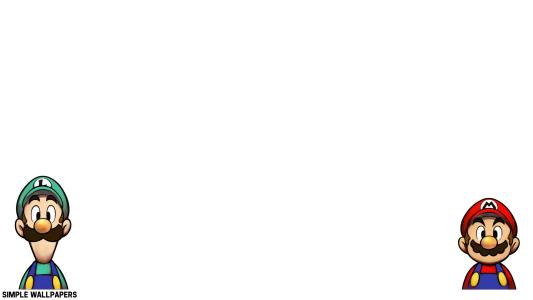
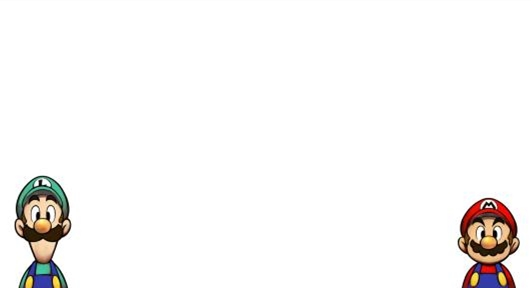
Site updated: 2018-03-14 13:46:31

Changed region(s): [[0.0, 0.5625, 0.1507, 1.0], [0.8437, 0.6562, 0.9944, 1.0]]

diff --git a/archives/2018/03/index.html b/archives/2018/03/index.html
@@ -1,4 +1,4 @@
-<!DOCTYPE html><html lang="zh-cn"><head><meta charset="utf-8"><meta http-equiv="X-UA-Compatible" content="IE=Edge"><meta name="viewport" content="width=device-width,initial-scale=1.0,minimum-scale=1.0,maximum-scale=1.0,user-scalable=no"><meta name="format-detection" content="telephone=no"><meta name="format-detection" content="email=no"><meta name="description" content="用于记录随手笔记的小博客！"><meta name="keywords" content="Hexo, Gruntjs, Nodejs, Reactjs, Vuejs"><title>脚印艺的小博客</title><link rel="stylesheet" href="/css/main_style.min.css"><link rel="icon" href="/favicon.ico"></head><body><input id="navi" type="checkbox"><ul class="main-navication"><li><a href="/"><span>Home</span></a></li><li><a href="https://github.com"><span>Github</span></a></li></ul><div class="wrapper" id="wrap"><div class="page-header"><label class="navi-button" for="navi">MENU</label><div class="background"><img src="/menuHead.jpg"></div><div class="author"><div class="head"><img src="/boy.jpg"></div><h3 class="name">脚印艺</h3><p class="signature">随手笔记</p></div></div><ul class="post-list" style="max-width:800px"><li> <p class="date">March 13, 2018</p><h4 class="title"><a href="/2018/03/13/hello-world/">Hello World</a></h4><div class="excerpt"></div><ul class="meta"><li><i class="icon icon-author"></i>脚印艺</li><li><i class="icon icon-clock"></i>2 Minutes</li><li><i class="icon icon-category"></i></li></ul></li></ul><ul class="pagination"><li class="current"><a>1</a></li></ul><div class="page-footer"><div class="top"><ul class="social"><li><a href="https://github.com/somebody12123" title="Github" target="_blank"><i class="icon icon-github"></i></a></li></ul></div><div class="bottom"><p class="copyright">© 2018 脚印艺的小博客<br><small>POWER BY <a href="https://hexo.io" target="_blank">HEXO</a></small></p></div></div></div><script>var wrap = document.getElementById('wrap');
+<!DOCTYPE html><html lang="zh-cn"><head><meta charset="utf-8"><meta http-equiv="X-UA-Compatible" content="IE=Edge"><meta name="viewport" content="width=device-width,initial-scale=1.0,minimum-scale=1.0,maximum-scale=1.0,user-scalable=no"><meta name="format-detection" content="telephone=no"><meta name="format-detection" content="email=no"><meta name="description" content="用于记录随手笔记的小博客！"><meta name="keywords" content="Hexo, Gruntjs, Nodejs, Reactjs, Vuejs"><title>脚印艺的小博客</title><link rel="stylesheet" href="/css/main_style.min.css"><link rel="icon" href="/favicon.ico"></head><body><input id="navi" type="checkbox"><ul class="main-navication"><li><a href="/"><span>Home</span></a></li><li><a href="https://github.com"><span>Github</span></a></li></ul><div class="wrapper" id="wrap"><div class="page-header"><label class="navi-button" for="navi">MENU</label><div class="background"><img src="/contentHead.jpg"></div><div class="author"><div class="head"><img src="/boy.jpg"></div><h3 class="name">脚印艺</h3><p class="signature">随手笔记</p></div></div><ul class="post-list" style="max-width:800px"><li> <p class="date">March 13, 2018</p><h4 class="title"><a href="/2018/03/13/hello-world/">Hello World</a></h4><div class="excerpt"></div><ul class="meta"><li><i class="icon icon-author"></i>脚印艺</li><li><i class="icon icon-clock"></i>2 Minutes</li><li><i class="icon icon-category"></i></li></ul></li></ul><ul class="pagination"><li class="current"><a>1</a></li></ul><div class="page-footer"><div class="top"><ul class="social"><li><a href="https://github.com/somebody12123" title="Github" target="_blank"><i class="icon icon-github"></i></a></li></ul></div><div class="bottom"><p class="copyright">© 2018 脚印艺的小博客<br><small>POWER BY <a href="https://hexo.io" target="_blank">HEXO</a></small></p></div></div></div><script>var wrap = document.getElementById('wrap');
 window.onload = function () {
   wrap.className += ' done';
 }</script></body></html>

diff --git a/archives/2018/index.html b/archives/2018/index.html
@@ -1,4 +1,4 @@
-<!DOCTYPE html><html lang="zh-cn"><head><meta charset="utf-8"><meta http-equiv="X-UA-Compatible" content="IE=Edge"><meta name="viewport" content="width=device-width,initial-scale=1.0,minimum-scale=1.0,maximum-scale=1.0,user-scalable=no"><meta name="format-detection" content="telephone=no"><meta name="format-detection" content="email=no"><meta name="description" content="用于记录随手笔记的小博客！"><meta name="keywords" content="Hexo, Gruntjs, Nodejs, Reactjs, Vuejs"><title>脚印艺的小博客</title><link rel="stylesheet" href="/css/main_style.min.css"><link rel="icon" href="/favicon.ico"></head><body><input id="navi" type="checkbox"><ul class="main-navication"><li><a href="/"><span>Home</span></a></li><li><a href="https://github.com"><span>Github</span></a></li></ul><div class="wrapper" id="wrap"><div class="page-header"><label class="navi-button" for="navi">MENU</label><div class="background"><img src="/menuHead.jpg"></div><div class="author"><div class="head"><img src="/boy.jpg"></div><h3 class="name">脚印艺</h3><p class="signature">随手笔记</p></div></div><ul class="post-list" style="max-width:800px"><li> <p class="date">March 13, 2018</p><h4 class="title"><a href="/2018/03/13/hello-world/">Hello World</a></h4><div class="excerpt"></div><ul class="meta"><li><i class="icon icon-author"></i>脚印艺</li><li><i class="icon icon-clock"></i>2 Minutes</li><li><i class="icon icon-category"></i></li></ul></li></ul><ul class="pagination"><li class="current"><a>1</a></li></ul><div class="page-footer"><div class="top"><ul class="social"><li><a href="https://github.com/somebody12123" title="Github" target="_blank"><i class="icon icon-github"></i></a></li></ul></div><div class="bottom"><p class="copyright">© 2018 脚印艺的小博客<br><small>POWER BY <a href="https://hexo.io" target="_blank">HEXO</a></small></p></div></div></div><script>var wrap = document.getElementById('wrap');
+<!DOCTYPE html><html lang="zh-cn"><head><meta charset="utf-8"><meta http-equiv="X-UA-Compatible" content="IE=Edge"><meta name="viewport" content="width=device-width,initial-scale=1.0,minimum-scale=1.0,maximum-scale=1.0,user-scalable=no"><meta name="format-detection" content="telephone=no"><meta name="format-detection" content="email=no"><meta name="description" content="用于记录随手笔记的小博客！"><meta name="keywords" content="Hexo, Gruntjs, Nodejs, Reactjs, Vuejs"><title>脚印艺的小博客</title><link rel="stylesheet" href="/css/main_style.min.css"><link rel="icon" href="/favicon.ico"></head><body><input id="navi" type="checkbox"><ul class="main-navication"><li><a href="/"><span>Home</span></a></li><li><a href="https://github.com"><span>Github</span></a></li></ul><div class="wrapper" id="wrap"><div class="page-header"><label class="navi-button" for="navi">MENU</label><div class="background"><img src="/contentHead.jpg"></div><div class="author"><div class="head"><img src="/boy.jpg"></div><h3 class="name">脚印艺</h3><p class="signature">随手笔记</p></div></div><ul class="post-list" style="max-width:800px"><li> <p class="date">March 13, 2018</p><h4 class="title"><a href="/2018/03/13/hello-world/">Hello World</a></h4><div class="excerpt"></div><ul class="meta"><li><i class="icon icon-author"></i>脚印艺</li><li><i class="icon icon-clock"></i>2 Minutes</li><li><i class="icon icon-category"></i></li></ul></li></ul><ul class="pagination"><li class="current"><a>1</a></li></ul><div class="page-footer"><div class="top"><ul class="social"><li><a href="https://github.com/somebody12123" title="Github" target="_blank"><i class="icon icon-github"></i></a></li></ul></div><div class="bottom"><p class="copyright">© 2018 脚印艺的小博客<br><small>POWER BY <a href="https://hexo.io" target="_blank">HEXO</a></small></p></div></div></div><script>var wrap = document.getElementById('wrap');
 window.onload = function () {
   wrap.className += ' done';
 }</script></body></html>

diff --git a/archives/index.html b/archives/index.html
@@ -1,4 +1,4 @@
-<!DOCTYPE html><html lang="zh-cn"><head><meta charset="utf-8"><meta http-equiv="X-UA-Compatible" content="IE=Edge"><meta name="viewport" content="width=device-width,initial-scale=1.0,minimum-scale=1.0,maximum-scale=1.0,user-scalable=no"><meta name="format-detection" content="telephone=no"><meta name="format-detection" content="email=no"><meta name="description" content="用于记录随手笔记的小博客！"><meta name="keywords" content="Hexo, Gruntjs, Nodejs, Reactjs, Vuejs"><title>脚印艺的小博客</title><link rel="stylesheet" href="/css/main_style.min.css"><link rel="icon" href="/favicon.ico"></head><body><input id="navi" type="checkbox"><ul class="main-navication"><li><a href="/"><span>Home</span></a></li><li><a href="https://github.com"><span>Github</span></a></li></ul><div class="wrapper" id="wrap"><div class="page-header"><label class="navi-button" for="navi">MENU</label><div class="background"><img src="/menuHead.jpg"></div><div class="author"><div class="head"><img src="/boy.jpg"></div><h3 class="name">脚印艺</h3><p class="signature">随手笔记</p></div></div><ul class="post-list" style="max-width:800px"><li> <p class="date">March 13, 2018</p><h4 class="title"><a href="/2018/03/13/hello-world/">Hello World</a></h4><div class="excerpt"></div><ul class="meta"><li><i class="icon icon-author"></i>脚印艺</li><li><i class="icon icon-clock"></i>2 Minutes</li><li><i class="icon icon-category"></i></li></ul></li></ul><ul class="pagination"><li class="current"><a>1</a></li></ul><div class="page-footer"><div class="top"><ul class="social"><li><a href="https://github.com/somebody12123" title="Github" target="_blank"><i class="icon icon-github"></i></a></li></ul></div><div class="bottom"><p class="copyright">© 2018 脚印艺的小博客<br><small>POWER BY <a href="https://hexo.io" target="_blank">HEXO</a></small></p></div></div></div><script>var wrap = document.getElementById('wrap');
+<!DOCTYPE html><html lang="zh-cn"><head><meta charset="utf-8"><meta http-equiv="X-UA-Compatible" content="IE=Edge"><meta name="viewport" content="width=device-width,initial-scale=1.0,minimum-scale=1.0,maximum-scale=1.0,user-scalable=no"><meta name="format-detection" content="telephone=no"><meta name="format-detection" content="email=no"><meta name="description" content="用于记录随手笔记的小博客！"><meta name="keywords" content="Hexo, Gruntjs, Nodejs, Reactjs, Vuejs"><title>脚印艺的小博客</title><link rel="stylesheet" href="/css/main_style.min.css"><link rel="icon" href="/favicon.ico"></head><body><input id="navi" type="checkbox"><ul class="main-navication"><li><a href="/"><span>Home</span></a></li><li><a href="https://github.com"><span>Github</span></a></li></ul><div class="wrapper" id="wrap"><div class="page-header"><label class="navi-button" for="navi">MENU</label><div class="background"><img src="/contentHead.jpg"></div><div class="author"><div class="head"><img src="/boy.jpg"></div><h3 class="name">脚印艺</h3><p class="signature">随手笔记</p></div></div><ul class="post-list" style="max-width:800px"><li> <p class="date">March 13, 2018</p><h4 class="title"><a href="/2018/03/13/hello-world/">Hello World</a></h4><div class="excerpt"></div><ul class="meta"><li><i class="icon icon-author"></i>脚印艺</li><li><i class="icon icon-clock"></i>2 Minutes</li><li><i class="icon icon-category"></i></li></ul></li></ul><ul class="pagination"><li class="current"><a>1</a></li></ul><div class="page-footer"><div class="top"><ul class="social"><li><a href="https://github.com/somebody12123" title="Github" target="_blank"><i class="icon icon-github"></i></a></li></ul></div><div class="bottom"><p class="copyright">© 2018 脚印艺的小博客<br><small>POWER BY <a href="https://hexo.io" target="_blank">HEXO</a></small></p></div></div></div><script>var wrap = document.getElementById('wrap');
 window.onload = function () {
   wrap.className += ' done';
 }</script></body></html>

diff --git a/index.html b/index.html
@@ -1,4 +1,4 @@
-<!DOCTYPE html><html lang="zh-cn"><head><meta charset="utf-8"><meta http-equiv="X-UA-Compatible" content="IE=Edge"><meta name="viewport" content="width=device-width,initial-scale=1.0,minimum-scale=1.0,maximum-scale=1.0,user-scalable=no"><meta name="format-detection" content="telephone=no"><meta name="format-detection" content="email=no"><meta name="description" content="用于记录随手笔记的小博客！"><meta name="keywords" content="Hexo, Gruntjs, Nodejs, Reactjs, Vuejs"><title>脚印艺的小博客</title><link rel="stylesheet" href="/css/main_style.min.css"><link rel="icon" href="/favicon.ico"></head><body><input id="navi" type="checkbox"><ul class="main-navication"><li><a href="/"><span>Home</span></a></li><li><a href="https://github.com"><span>Github</span></a></li></ul><div class="wrapper" id="wrap"><div class="page-header"><label class="navi-button" for="navi">MENU</label><div class="background"><img src="/menuHead.jpg"></div><div class="author"><div class="head"><img src="/boy.jpg"></div><h3 class="name">脚印艺</h3><p class="signature">随手笔记</p></div></div><ul class="post-list" style="max-width:800px"><li> <p class="date">March 13, 2018</p><h4 class="title"><a href="/2018/03/13/hello-world/">Hello World</a></h4><div class="excerpt"></div><ul class="meta"><li><i class="icon icon-author"></i>脚印艺</li><li><i class="icon icon-clock"></i>2 Minutes</li><li><i class="icon icon-category"></i></li></ul></li></ul><ul class="pagination"><li class="current"><a>1</a></li></ul><div class="page-footer"><div class="top"><ul class="social"><li><a href="https://github.com/somebody12123" title="Github" target="_blank"><i class="icon icon-github"></i></a></li></ul></div><div class="bottom"><p class="copyright">© 2018 脚印艺的小博客<br><small>POWER BY <a href="https://hexo.io" target="_blank">HEXO</a></small></p></div></div></div><script>var wrap = document.getElementById('wrap');
+<!DOCTYPE html><html lang="zh-cn"><head><meta charset="utf-8"><meta http-equiv="X-UA-Compatible" content="IE=Edge"><meta name="viewport" content="width=device-width,initial-scale=1.0,minimum-scale=1.0,maximum-scale=1.0,user-scalable=no"><meta name="format-detection" content="telephone=no"><meta name="format-detection" content="email=no"><meta name="description" content="用于记录随手笔记的小博客！"><meta name="keywords" content="Hexo, Gruntjs, Nodejs, Reactjs, Vuejs"><title>脚印艺的小博客</title><link rel="stylesheet" href="/css/main_style.min.css"><link rel="icon" href="/favicon.ico"></head><body><input id="navi" type="checkbox"><ul class="main-navication"><li><a href="/"><span>Home</span></a></li><li><a href="https://github.com"><span>Github</span></a></li></ul><div class="wrapper" id="wrap"><div class="page-header"><label class="navi-button" for="navi">MENU</label><div class="background"><img src="/contentHead.jpg"></div><div class="author"><div class="head"><img src="/boy.jpg"></div><h3 class="name">脚印艺</h3><p class="signature">随手笔记</p></div></div><ul class="post-list" style="max-width:800px"><li> <p class="date">March 13, 2018</p><h4 class="title"><a href="/2018/03/13/hello-world/">Hello World</a></h4><div class="excerpt"></div><ul class="meta"><li><i class="icon icon-author"></i>脚印艺</li><li><i class="icon icon-clock"></i>2 Minutes</li><li><i class="icon icon-category"></i></li></ul></li></ul><ul class="pagination"><li class="current"><a>1</a></li></ul><div class="page-footer"><div class="top"><ul class="social"><li><a href="https://github.com/somebody12123" title="Github" target="_blank"><i class="icon icon-github"></i></a></li></ul></div><div class="bottom"><p class="copyright">© 2018 脚印艺的小博客<br><small>POWER BY <a href="https://hexo.io" target="_blank">HEXO</a></small></p></div></div></div><script>var wrap = document.getElementById('wrap');
 window.onload = function () {
   wrap.className += ' done';
 }</script></body></html>

diff --git a/2018/03/13/hello-world/index.html b/2018/03/13/hello-world/index.html
@@ -7,7 +7,7 @@
 <p>More info: <a href="https://hexo.io/docs/generating.html" target="_blank" rel="noopener">Generating</a></p>
 <h3 id="Deploy-to-remote-sites"><a href="#Deploy-to-remote-sites" class="headerlink" title="Deploy to remote sites"></a>Deploy to remote sites</h3><figure class="highlight bash"><table><tr><td class="gutter"><pre><span class="line">1</span><br></pre></td><td class="code"><pre><span class="line">$ hexo deploy</span><br></pre></td></tr></table></figure>
 <p>More info: <a href="https://hexo.io/docs/deployment.html" target="_blank" rel="noopener">Deployment</a></p>
-</div><div class="article-meta" style="max-width:800px"></div><div class="article-comment" style="max-width:800px"><div class="ds-thread" id="ds-thread" data-thread-key="cjeqnoos1000034tiwh8vqfyt" data-title="Hello World" data-url="http://yoursite.com/2018/03/13/hello-world/" site-name="ueibo"></div><script>var siteName = document.getElementById('ds-thread').getAttribute('site-name');
+</div><div class="article-meta" style="max-width:800px"></div><div class="article-comment" style="max-width:800px"><div class="ds-thread" id="ds-thread" data-thread-key="cjeqnxk6i00006ktiacrp3iq3" data-title="Hello World" data-url="http://yoursite.com/2018/03/13/hello-world/" site-name="ueibo"></div><script>var siteName = document.getElementById('ds-thread').getAttribute('site-name');
 var duoshuoQuery = {short_name: siteName};
 (function() {
   var ds = document.createElement('script');
